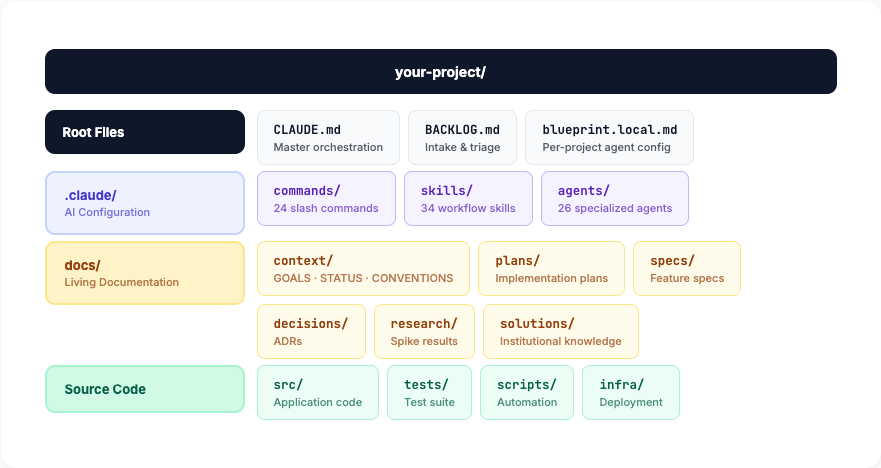
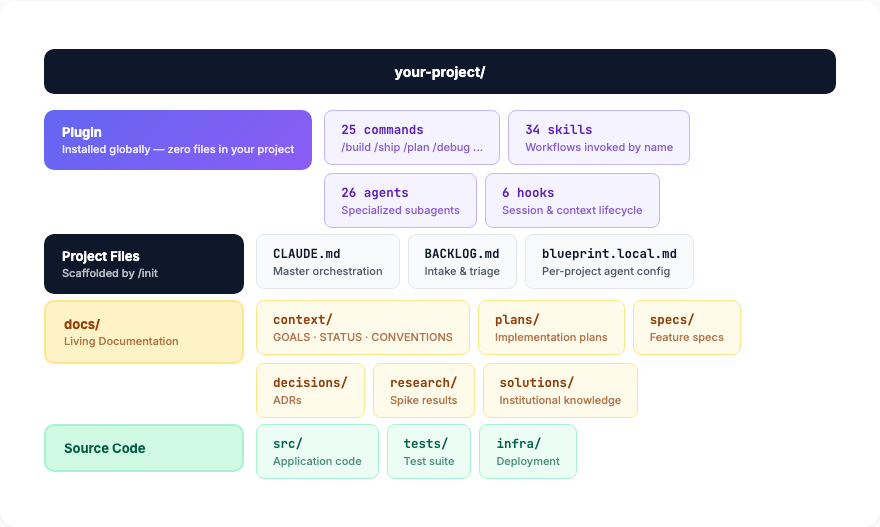
docs: update project structure diagram for plugin model
Replace .claude/ section with Plugin section (purple gradient) showing
25 commands, 34 skills, 26 agents, 6 hooks provided globally. Remove
scripts/ from source code section (now in plugin).

Changed region(s): [[0.0307, 0.0897, 0.9511, 0.9274]]

diff --git a/docs/images/render-diagrams.html b/docs/images/render-diagrams.html
@@ -1769,8 +1769,30 @@
   <div class="ps-tree">
     <div class="ps-root">your-project/</div>
 
+    <div class="ps-section ps-claude">
+      <div class="ps-section-label" style="background:linear-gradient(135deg,#6366f1,#8b5cf6);color:#fff;border:none;">Plugin<br><span style="font-weight:500;font-size:11px;opacity:0.85">Installed globally — zero files in your project</span></div>
+      <div class="ps-children">
+        <div class="ps-child">
+          <div class="ps-child-name">25 commands</div>
+          <div class="ps-child-desc">/build /ship /plan /debug ...</div>
+        </div>
+        <div class="ps-child">
+          <div class="ps-child-name">34 skills</div>
+          <div class="ps-child-desc">Workflows invoked by name</div>
+        </div>
+        <div class="ps-child">
+          <div class="ps-child-name">26 agents</div>
+          <div class="ps-child-desc">Specialized subagents</div>
+        </div>
+        <div class="ps-child">
+          <div class="ps-child-name">6 hooks</div>
+          <div class="ps-child-desc">Session &amp; context lifecycle</div>
+        </div>
+      </div>
+    </div>
+
     <div class="ps-section ps-root-files">
-      <div class="ps-section-label">Root Files</div>
+      <div class="ps-section-label">Project Files<br><span style="font-weight:500;font-size:11px;opacity:0.7">Scaffolded by /init</span></div>
       <div class="ps-children">
         <div class="ps-child">
           <div class="ps-child-name">CLAUDE.md</div>
@@ -1783,24 +1805,6 @@
         <div class="ps-child">
           <div class="ps-child-name">blueprint.local.md</div>
           <div class="ps-child-desc">Per-project agent config</div>
-        </div>
-      </div>
-    </div>
-
-    <div class="ps-section ps-claude">
-      <div class="ps-section-label">.claude/<br><span style="font-weight:500;font-size:11px;opacity:0.7">AI Configuration</span></div>
-      <div class="ps-children">
-        <div class="ps-child">
-          <div class="ps-child-name">commands/</div>
-          <div class="ps-child-desc">24 slash commands</div>
-        </div>
-        <div class="ps-child">
-          <div class="ps-child-name">skills/</div>
-          <div class="ps-child-desc">34 workflow skills</div>
-        </div>
-        <div class="ps-child">
-          <div class="ps-child-name">agents/</div>
-          <div class="ps-child-desc">26 specialized agents</div>
         </div>
       </div>
     </div>
@@ -1845,10 +1849,6 @@
         <div class="ps-child">
           <div class="ps-child-name">tests/</div>
           <div class="ps-child-desc">Test suite</div>
-        </div>
-        <div class="ps-child">
-          <div class="ps-child-name">scripts/</div>
-          <div class="ps-child-desc">Automation</div>
         </div>
         <div class="ps-child">
           <div class="ps-child-name">infra/</div>
